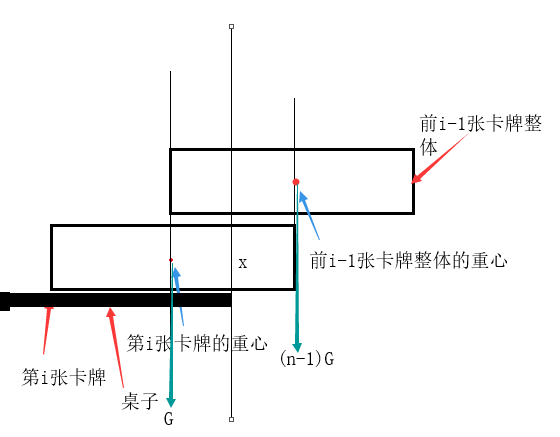
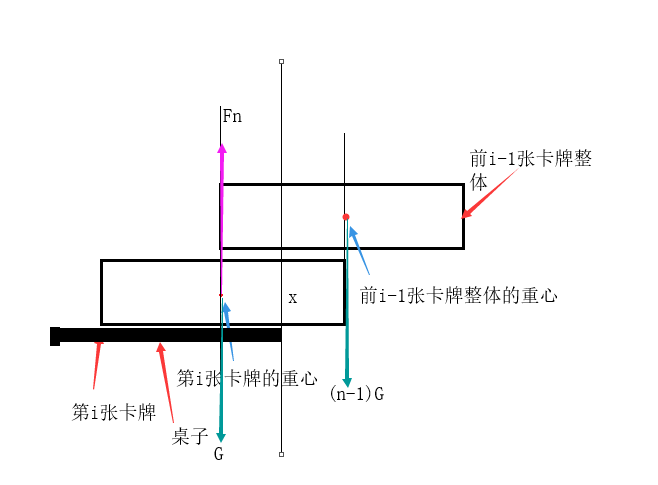
Site updated: 2019-08-20 23:08:47

diff --git a/2019/08/20/hdoj1330/index.html b/2019/08/20/hdoj1330/index.html
@@ -192,7 +192,7 @@
 <p>&nbsp;&nbsp;&nbsp;&nbsp;对于i张卡片的最佳摆法，我们只需要在i-1张卡片的摆法下面加一张边缘与桌檐重合的卡片，并将所有卡片一起向桌檐外移动。<br>&nbsp;&nbsp;&nbsp;&nbsp;对于一种最佳摆法，其中心一定在桌檐上，所以一定符合杠杆原理，支点是桌檐。<br>&nbsp;&nbsp;&nbsp;&nbsp;那么对于i张卡片的情况，我们假设第n张向外移动了x，那么前n-1张的重心就在桌檐外x，因为他们的重心在i-1张卡片时原本在桌檐上。<br>第i张卡片的重心在桌檐内0.5-x处(规则的矩形重心在几何中心)，那么我们可以列出杠杆平衡方程：</p>
 <center>(0.5-x)* G=x* (i-1)G</center>
 
-<p>其中，对于i卡牌的支持力等于其重力（因为图比较乱了，所以就没再补上支持力，但是对于i卡牌  F<sub>N</sub>=G的,方向与重力相反）<br>解得：<strong>x=$\frac{1}{2 * i }$</strong></p>
+<p>其中，对于i卡牌的支持力等于其重力（即：对于i卡牌&nbsp;&nbsp;F<sub>N</sub>=G的,方向与重力相反）<br>解得：<strong>x=$\frac{1}{2 * i }$</strong></p>
 <p>所以：<br>&nbsp;&nbsp;&nbsp;&nbsp;&nbsp;&nbsp;&nbsp;&nbsp;第一张为 $\frac{1}{2}$<br>&nbsp;&nbsp;&nbsp;&nbsp;&nbsp;&nbsp;&nbsp;&nbsp;第二张为 $\frac{1}{2}$+$\frac{1}{4}$<br>&nbsp;&nbsp;&nbsp;&nbsp;&nbsp;&nbsp;&nbsp;&nbsp;第三张为 $\frac{1}{2}$+$\frac{1}{4}$+$\frac{1}{6}$<br>&nbsp;&nbsp;&nbsp;&nbsp;&nbsp;&nbsp;&nbsp;&nbsp;……………………</p>
 <hr>
 <h2 id="Accepted代码"><a href="#Accepted代码" class="headerlink" title="Accepted代码"></a>Accepted代码</h2><figure class="highlight c++"><table><tr><td class="gutter"><pre><span class="line">1</span><br><span class="line">2</span><br><span class="line">3</span><br><span class="line">4</span><br><span class="line">5</span><br><span class="line">6</span><br><span class="line">7</span><br><span class="line">8</span><br><span class="line">9</span><br><span class="line">10</span><br><span class="line">11</span><br><span class="line">12</span><br><span class="line">13</span><br><span class="line">14</span><br><span class="line">15</span><br><span class="line">16</span><br><span class="line">17</span><br><span class="line">18</span><br><span class="line">19</span><br><span class="line">20</span><br><span class="line">21</span><br></pre></td><td class="code"><pre><span class="line"><span class="meta">#<span class="meta-keyword">include</span><span class="meta-string">&lt;iostream&gt;</span></span></span><br><span class="line"><span class="meta">#<span class="meta-keyword">include</span><span class="meta-string">&lt;iomanip&gt;</span></span></span><br><span class="line"><span class="keyword">using</span> <span class="keyword">namespace</span> <span class="built_in">std</span>;</span><br><span class="line"><span class="keyword">const</span> <span class="keyword">int</span> maxn = <span class="number">99999</span> + <span class="number">1</span>;</span><br><span class="line"><span class="keyword">double</span> res[maxn];</span><br><span class="line"><span class="keyword">int</span> flag,n;</span><br><span class="line"><span class="function"><span class="keyword">int</span> <span class="title">main</span><span class="params">()</span> </span>&#123;</span><br><span class="line">    flag = <span class="number">1</span>;</span><br><span class="line">    res[<span class="number">0</span>] = <span class="number">0</span>;</span><br><span class="line">    <span class="keyword">for</span> (<span class="keyword">int</span> i = <span class="number">1</span>; i &lt; maxn; i++) res[i] += (res[i - <span class="number">1</span>] + <span class="number">1.0</span> / ((<span class="keyword">double</span>)i * <span class="number">2.0</span>));</span><br><span class="line">    <span class="keyword">while</span> (<span class="built_in">cin</span> &gt;&gt; n) &#123;</span><br><span class="line">        <span class="keyword">if</span> (n &gt;= maxn)<span class="keyword">break</span>;</span><br><span class="line">        <span class="keyword">if</span> (flag) &#123;</span><br><span class="line">            <span class="built_in">cout</span> &lt;&lt; <span class="string">"# Cards  Overhang"</span> &lt;&lt; <span class="built_in">endl</span>;</span><br><span class="line">            flag = <span class="number">0</span>;</span><br><span class="line">        &#125;</span><br><span class="line">        </span><br><span class="line">        <span class="built_in">cout</span> &lt;&lt; setw(<span class="number">5</span>) &lt;&lt; n &lt;&lt; <span class="string">"     "</span> &lt;&lt; fixed &lt;&lt; setprecision(<span class="number">3</span>) &lt;&lt; res[n] &lt;&lt;<span class="built_in">endl</span>;</span><br><span class="line">    &#125;</span><br><span class="line">    <span class="keyword">return</span> <span class="number">0</span>;</span><br><span class="line">&#125;</span><br></pre></td></tr></table></figure>
